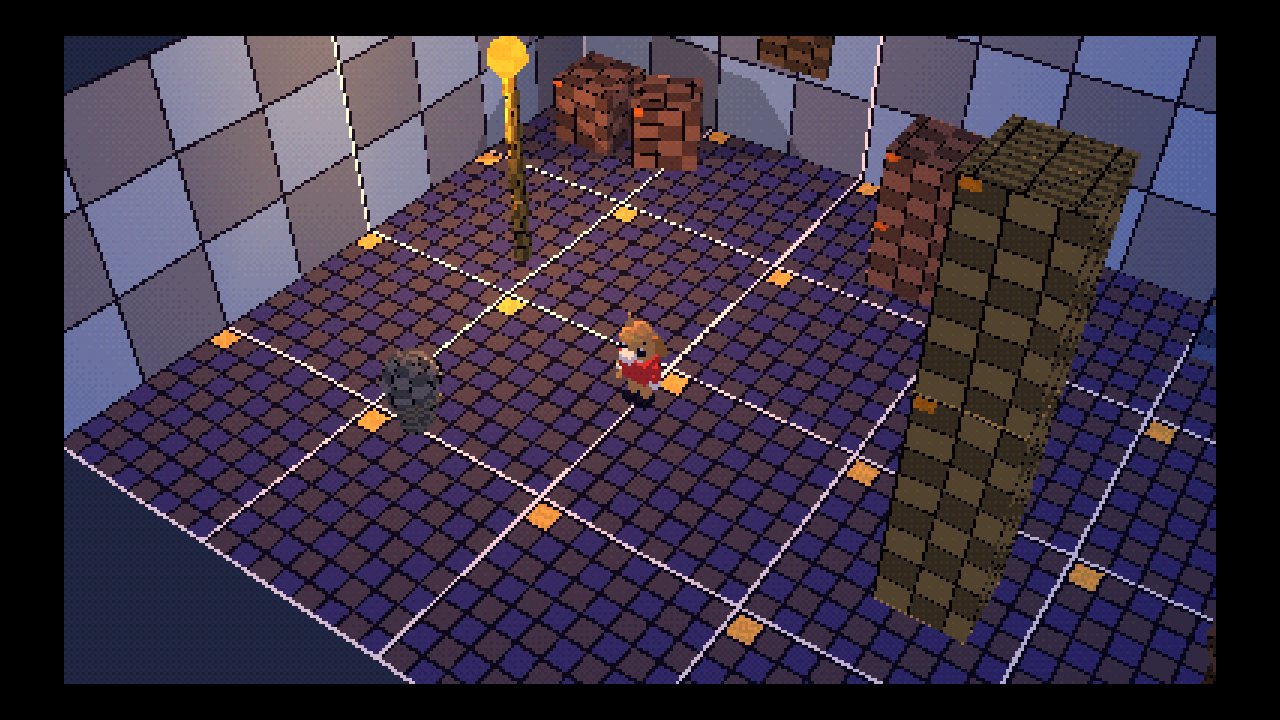
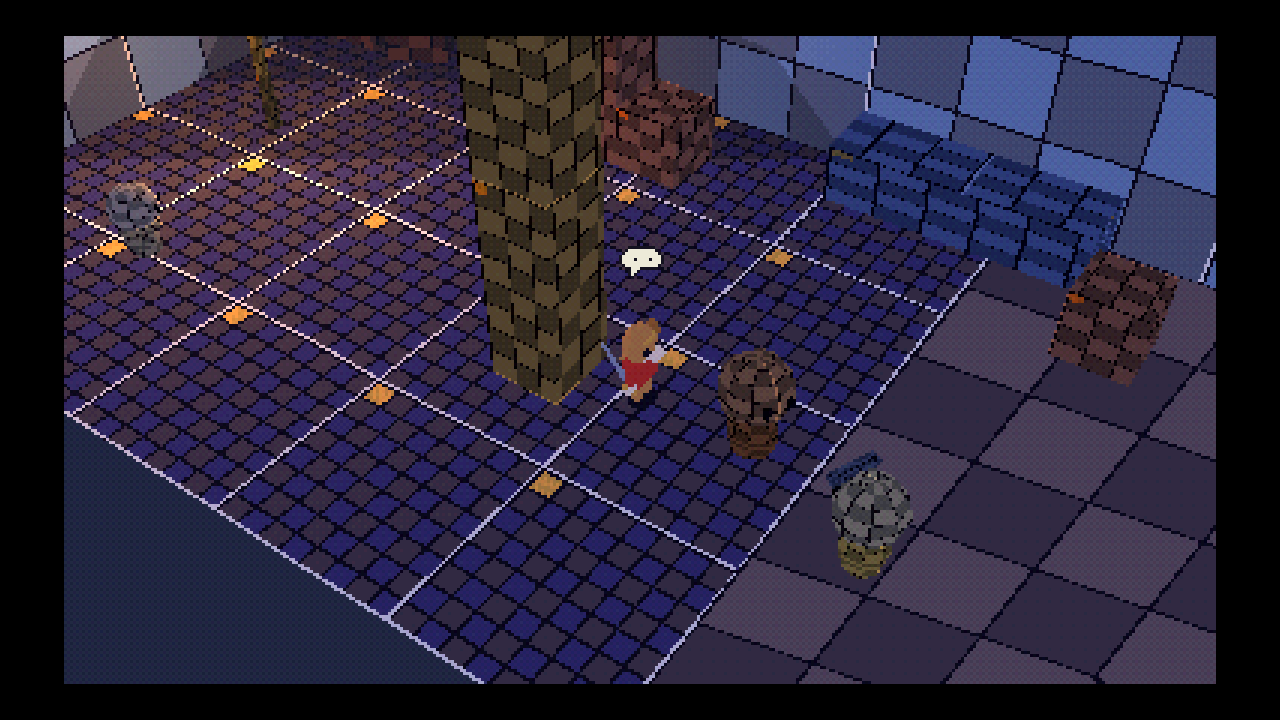
WIP: NPCs and interaction in the test room (Gameplay Programmer, in progress).
Claude-Session: https://claude.ai/code/session_012jSmZ4BPCmd8jMXHsVXFG6

diff --git a/docs/ross_playbook.md b/docs/ross_playbook.md
@@ -228,3 +228,4 @@ Ross's words, verbatim where possible, newest at the bottom.
 | F39 | 2026-10-06 | The art style for characters, before animation starts (no prediction recorded; led to the five Red prototypes in R31) | "before the artists animate, produce 5 prototypes of the main character for me to approve before we decide on an art style. borrow from games from 98-02 and try to find a classic art style that is more stylized and timeless as opposed to one that tries to be cool and realistic" · Chose: five prototypes of Red to approve before the art style is decided, drawn from 1998-2002 games; stylized and timeless, not cool or realistic. |
 | F40 | 2026-10-06 | The UI font. The studio's style guide used Press Start 2P (a true 8x8 NES-style pixel font) and Pixelify Sans, both pending a final check. Ross shared a screenshot of the FF9 status screen as the target (no prediction recorded) | "can we please move away from the early nes style font and begin to employ a font that more closely resembles the font shown in the screenshot? I still want it to look a little pixelated and gamey, I like the drop shadow as well" · Chose: drop the NES-style font; use a font closer to FF9's; keep a little pixelated and gamey; keep the drop shadow. |
 | F41 | 2026-10-06 | R31: the five Red art style prototypes (A Wind-Up Toy, B Button Pup, C Picture-Book, D Ink Line, E Rubber Bounce). The studio recommended A, or A's body with B's head. My prediction was A-based, about 55% (scored a miss) | "the style of E, the head of E, the body of C, the sword of E, make the ears shorter and pointy like a shiba inu - make her a shiba inu" · Chose: E's style, head and sword; C's body; shorter, pointy shiba-style ears; Red is a shiba inu (the mutt pup with one floppy ear is retired). |
+| F42 | 2026-10-06 | The combined shiba Red (prototype F: E's style, head and sword on C's body, short pointy shiba ears). The studio asked "Is this Red, so we can lock the style and start animating?" A approve as is; B polish pass first (chunkier legs and bigger boots, cleaner jacket hem, warmer cream in shadow, more visible tail); C custom changes. No Taste Keeper prediction was recorded, so nothing to score (R32) | "Option B - I like those ideas + 1 more - make the ears a little wider, narrow ears read a little more cat than dog, also make the head a little more cute bean shaped as opposed to a circle" · Chose: B, the studio's polish pass (all four ideas), plus two of his own: (1) ears a little wider, because narrow ears read cat; (2) head a more cute bean shape instead of a circle. He attached a hand sketch: a cat head (round circle, narrow ears) next to a dog head (bean or kidney shape, wider than tall, wider-set pointy ears, short snout poking forward). Style is not locked yet; animation waits for the polished Red. |

diff --git a/docs/bug_log.md b/docs/bug_log.md
@@ -5,4 +5,4 @@
 
 | # | Title | Severity | Steps to reproduce | Expected | Actual | File involved | Reported by | Status |
 |---|---|---|---|---|---|---|---|---|
-| B1 | Two movement tests failed once, then passed on re-runs | minor | Run the full suite while other Godot processes are busy on the same machine | Always pass | test_distance_travelled_matches_speed and test_movement_is_relative_to_the_camera failed once (timing-dependent under load) | game/tests/integration/test_player_move.gd | Technical Artist (seen), studio floor (re-ran 3×: pass) | Open: Gameplay Programmer to make them frame-time independent |
+| B1 | Two movement tests failed once, then passed on re-runs | minor | Run the full suite while other Godot processes are busy on the same machine | Always pass | test_distance_travelled_matches_speed and test_movement_is_relative_to_the_camera failed once (timing-dependent under load) | game/tests/integration/test_player_move.gd | Technical Artist (seen), studio floor (re-ran 3×: pass) | Fixed (Gameplay Programmer): both tests now switch Red's physics off and call step() by hand, so they count exact steps instead of real frames; awaiting QA re-check |

diff --git a/docs/how_to_play_demo.md b/docs/how_to_play_demo.md
@@ -24,7 +24,8 @@ This is a small test build. It has a title screen and one little test room where
 | Move Red | W A S D or the arrow keys | Left stick or d-pad |
 | Run | Hold **Shift** (let go to walk) | Hold **X** (the west button) |
 | Jump | **Space** | **A** |
-| Talk / interact in a room | E or Z | **B** |
+| Talk / examine / take (the icon over Red's head shows when you can) | E or Z | **B** |
+| Field menu (Items, Status, Config, Save, Close) | Tab or C | **Y** |
 | Confirm / pick a menu item | Enter, Z or E | A button |
 | Start / go back | Enter or Esc | Start button |
 | PSX options panel | **F1** | (keyboard only) |
